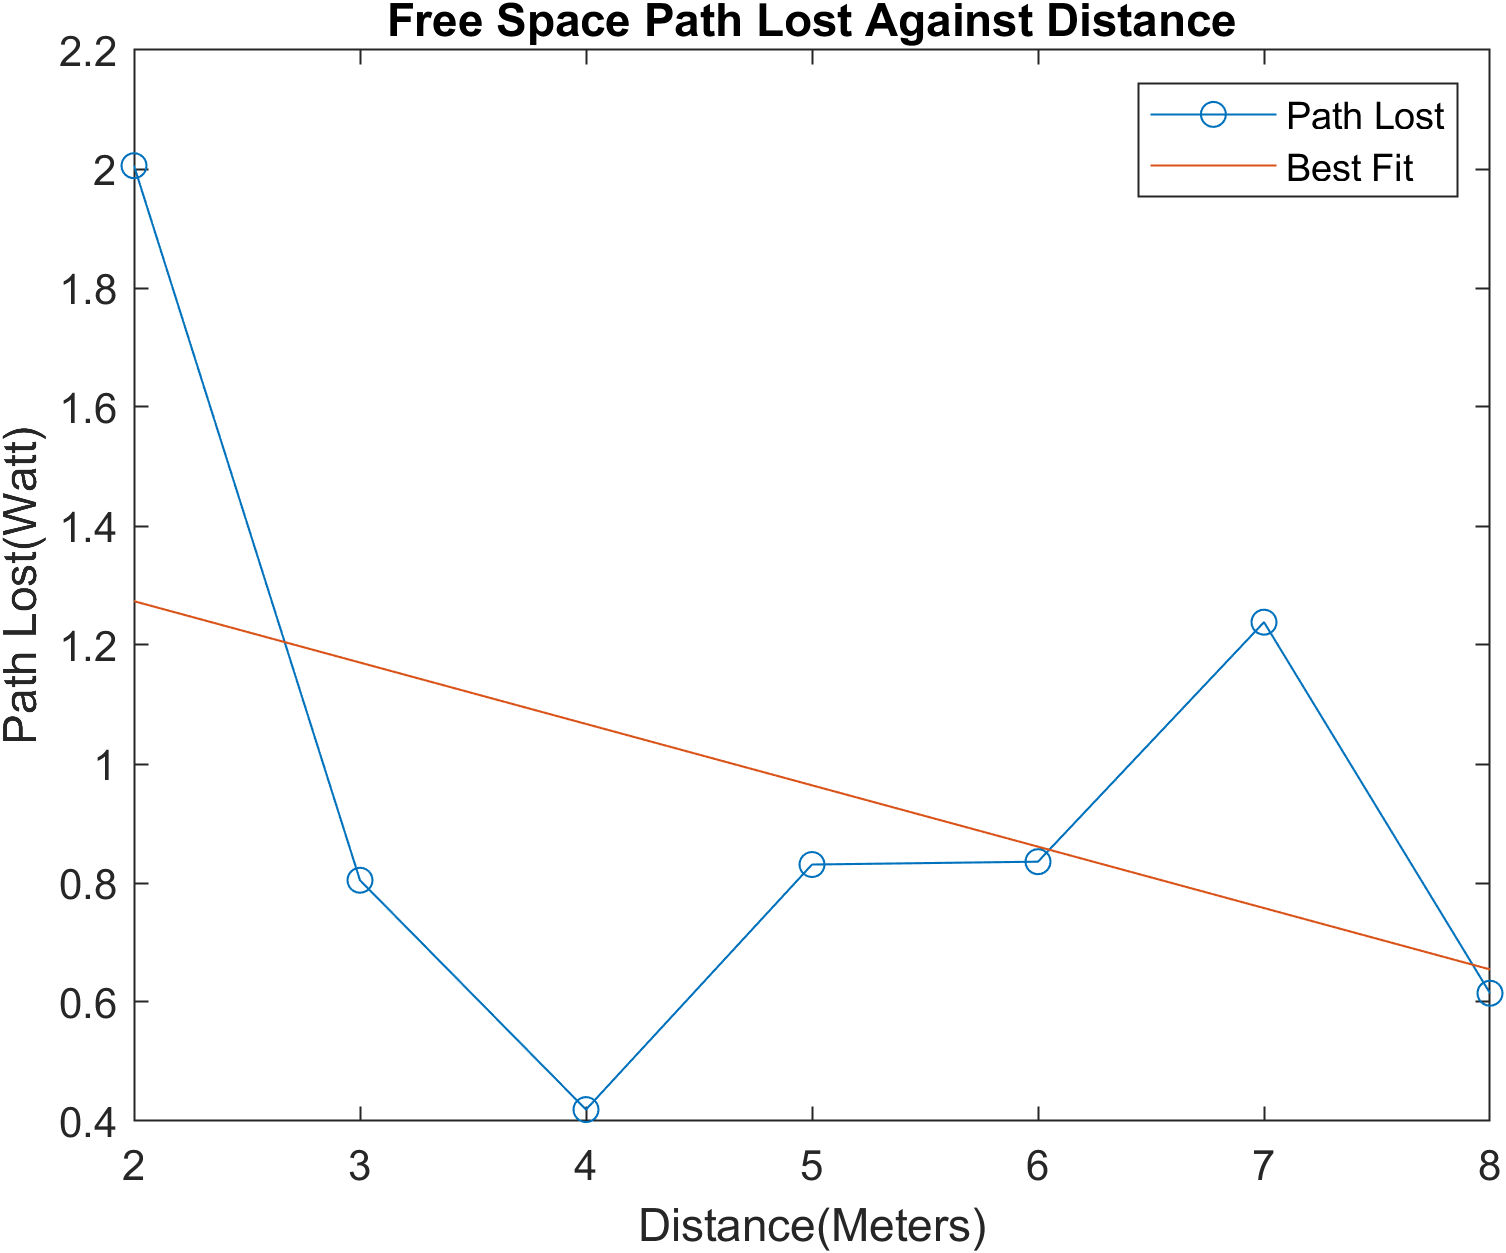
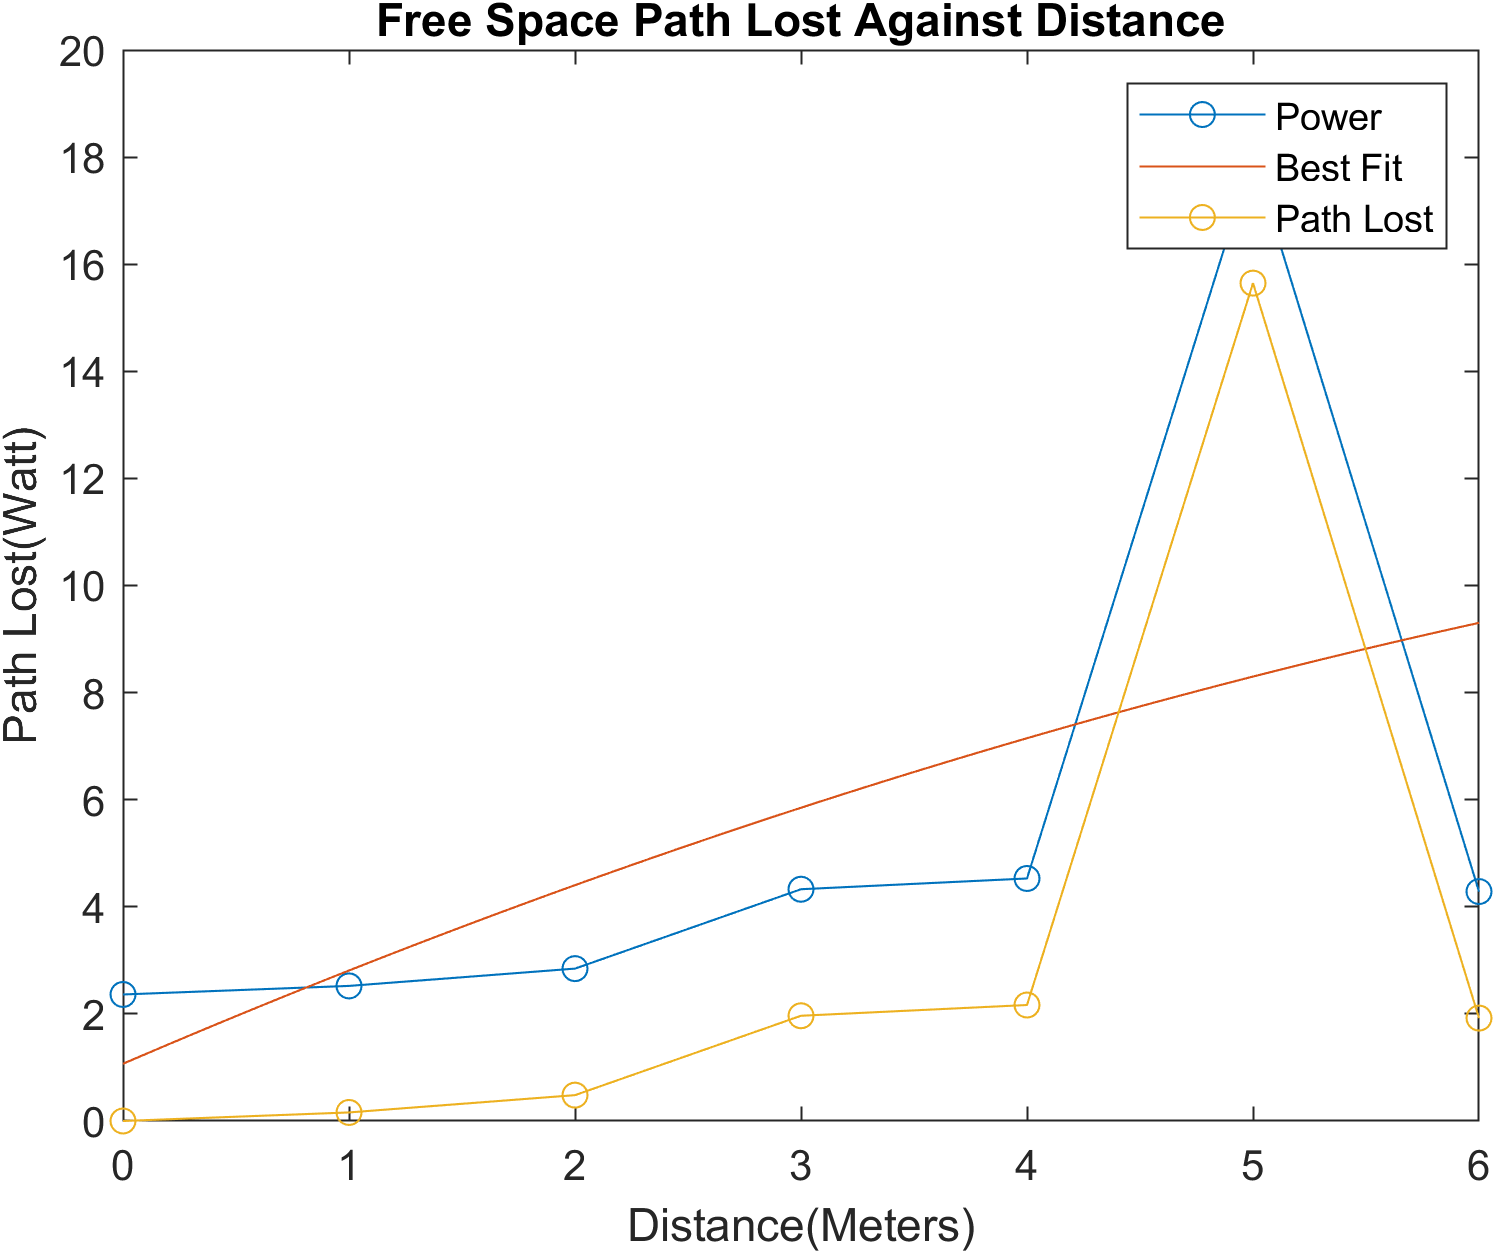
new requirment

diff --git a/data_collection/Plot.m b/data_collection/Plot.m
@@ -1,16 +1,30 @@
 test_data = load ('..\data\test_data.dat');
-xdata = test_data(:,1)
-ydata = test_data(:,2)
+longitude = test_data(:,1)
+latitude = test_data(:,2)
+initialx = longitude(1)
+initialy = latitude(1)
+distance = sqrt((longitude - initialx(1)).^2 + (latitude - initialy(1)).^2)
+avg_power = mean(test_data,2)
+
+xdata = distance(:)
+ydata = avg_power
 plot(xdata,ydata,'-o')
+
+
+cf = fit(xdata,ydata,'poly2'); 
+hold on
+plot(cf,'-')
+
+f = 868*10^6
+Ldb = avg_power - avg_power(1)
+
+%n = (20*log(f)-147.58 - Ldb)/10 /log(distance)
+
+plot(xdata,Ldb,'-o')
+
+legend('Power','Best Fit','Path Lost')
 xlabel('Distance(Meters)'), ylabel('Path Lost(Watt)')
 title('Free Space Path Lost Against Distance')
 
-
-P = polyfit(xdata,ydata,1); 
-xfit = xdata; 
-yfit = polyval(P,xfit); 
-hold on
-plot(xfit,yfit,'-')
-legend('Path Lost','Best Fit');
-f = gca;
-exportgraphics(f,'graph/graph.png','Resolution',300)
+out = gca;
+exportgraphics(out,'graph/graph.png','Resolution',300)
